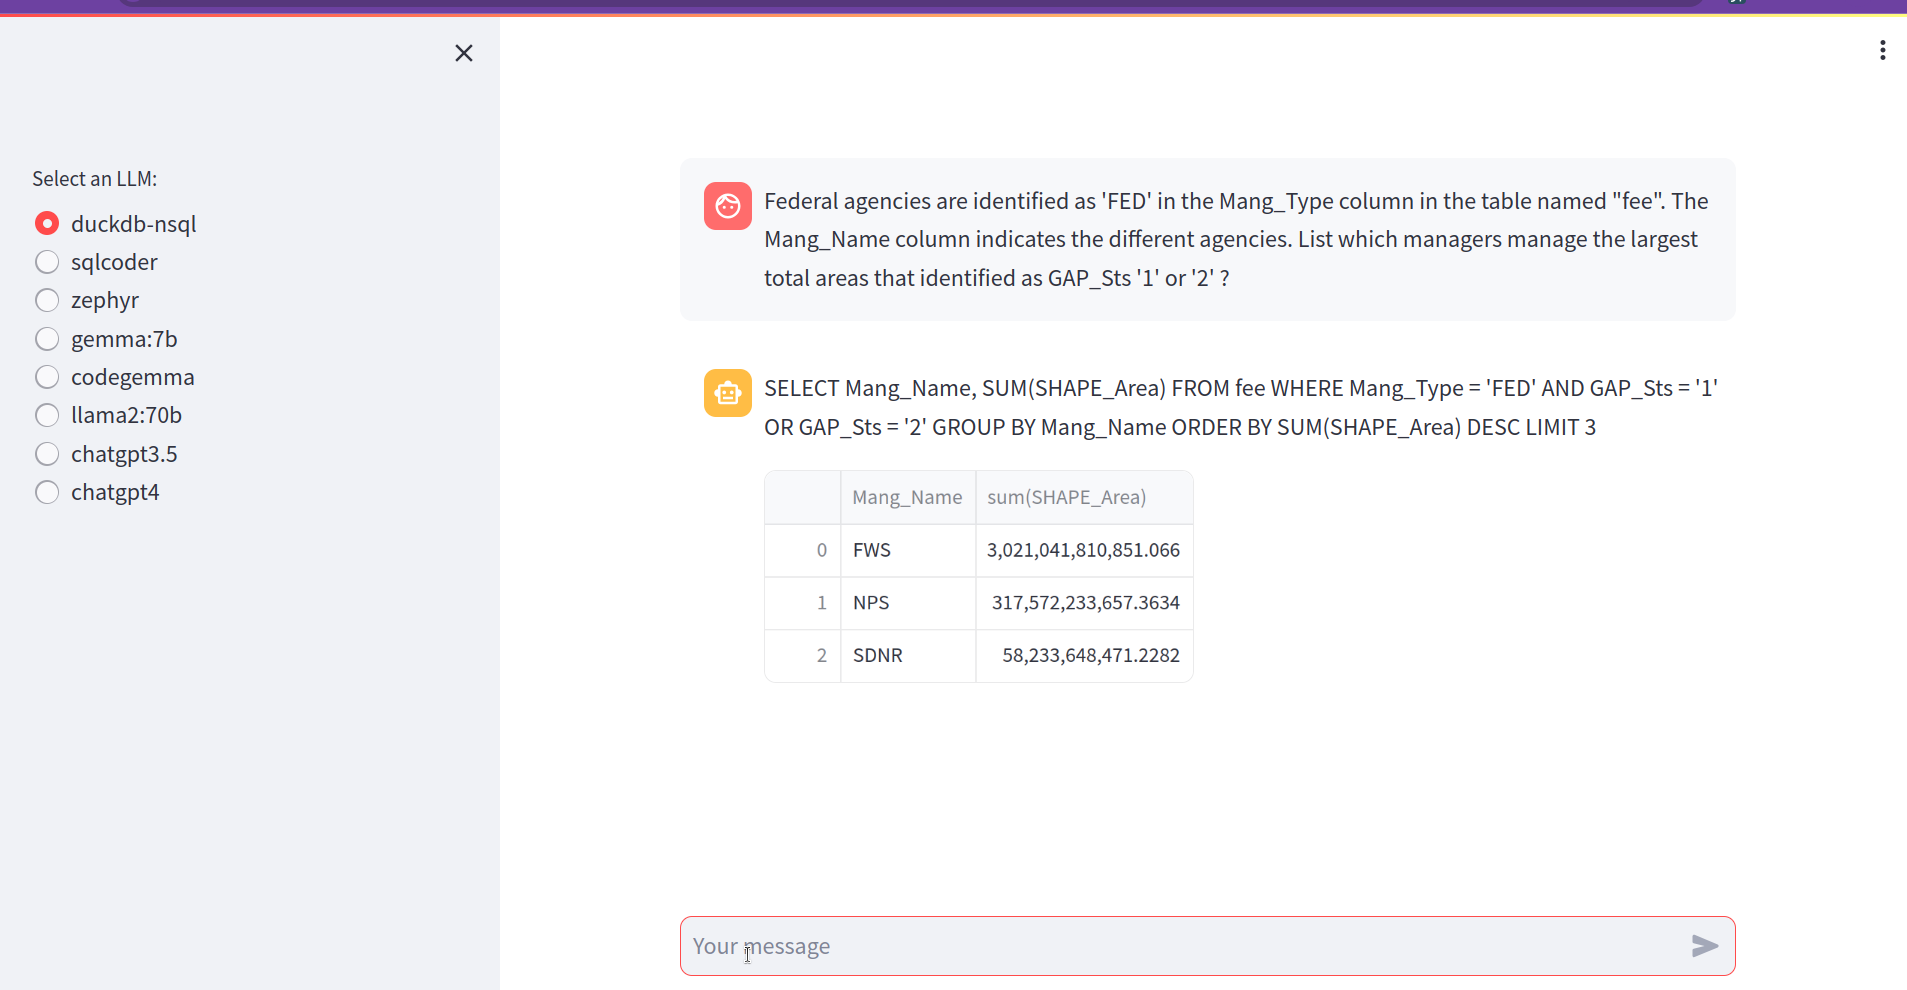
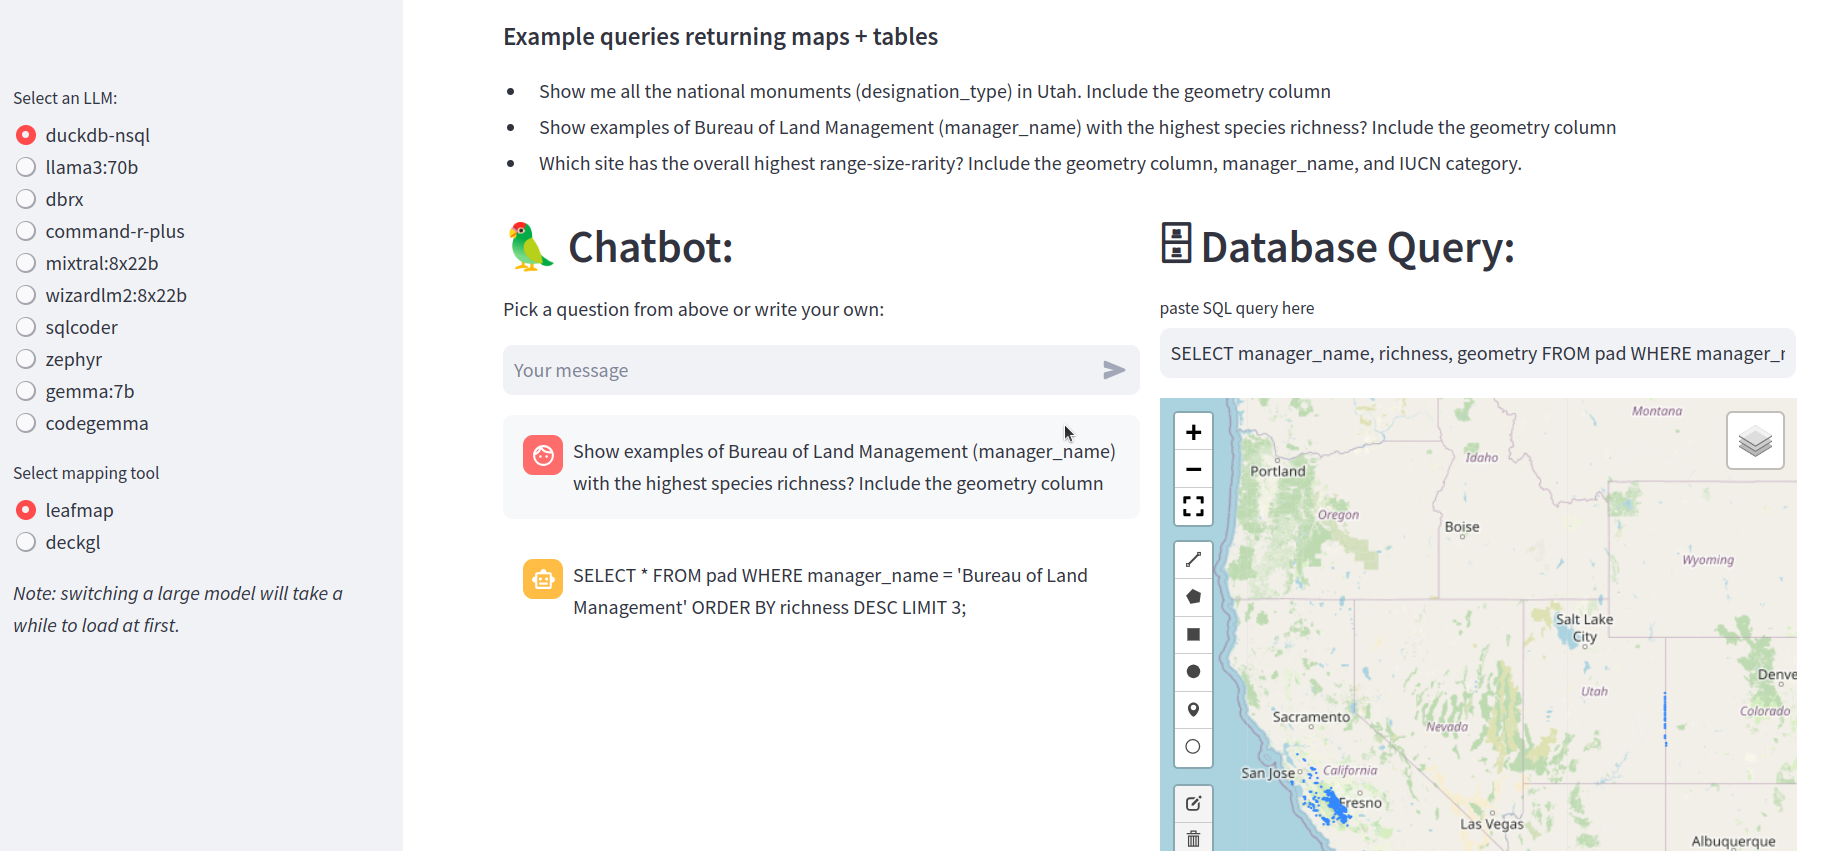
more models!

diff --git a/app.py b/app.py
@@ -43,7 +43,6 @@ def leaf_map(gdf):
     m.add_gdf(gdf)
     return m.to_streamlit()
 
-
 @st.cache_data
 def query_database(response):
     return con.sql(response).to_pandas().head(25)
@@ -53,7 +52,6 @@ def get_geom(tbl):
     tbl['geometry'] = tbl['geometry'].apply(wkb.loads)
     gdf = gpd.GeoDataFrame(tbl, geometry='geometry')
     return gdf
-
 
 ## Database connection
 from sqlalchemy import create_engine
@@ -66,56 +64,116 @@ import ibis
 con = ibis.connect("duckdb://pad.duckdb", read_only=True)
 con.load_extension("spatial")
 
-# alternately using duckdb directly
-#import duckdb
-#con = duckdb.connect("pad.duckdb", read_only=True)
-#con.install_extension("spatial")
-#con.load_extension("spatial")
-
 ## ChatGPT Connection
 from langchain_openai import ChatOpenAI 
-chatgpt_llm = ChatOpenAI(model="gpt-3.5-turbo", temperature=0, api_key=st.secrets["OPENAI_API_KEY"])
-chatgpt4_llm = ChatOpenAI(model="gpt-4", temperature=0, api_key=st.secrets["OPENAI_API_KEY"])
 
 # Requires ollama server running locally
 from langchain_community.llms import Ollama
 ## # from langchain_community.llms import ChatOllama
 
-models = {"duckdb-nsql": Ollama(model="duckdb-nsql", temperature=0),
+models = {
+          "duckdb-nsql": Ollama(model="duckdb-nsql", temperature=0),
+          "llama3:70b": Ollama(model="llama2:70b", temperature=0),
+          "dbrx": Ollama(model="dbrx", temperature=0),
+          "command-r-plus": Ollama(model="command-r-plus", temperature=0),
+          "mixtral:8x22b":  Ollama(model="mixtral:8x22b", temperature=0),
+          "wizardlm2:8x22b":  Ollama(model="wizardlm2:8x22b", temperature=0),
           "sqlcoder": Ollama(model="sqlcoder", temperature=0),
           "zephyr": Ollama(model="zephyr", temperature=0),
           "gemma:7b": Ollama(model="gemma:7b", temperature=0),
           "codegemma": Ollama(model="codegemma", temperature=0),
-          "llama2": Ollama(model="llama2", temperature=0),
-          "chatgpt3.5": chatgpt_llm, 
-          "chatgpt4": chatgpt4_llm}
+#          "chatgpt3.5": ChatOpenAI(model="gpt-3.5-turbo", temperature=0, api_key=st.secrets["OPENAI_API_KEY"]), 
+#          "chatgpt4": ChatOpenAI(model="gpt-4", temperature=0, api_key=st.secrets["OPENAI_API_KEY"])
+          }
+
+map_tool = {
+            "leafmap": leaf_map, 
+            "deckgl": deck_map
+            }
+
+st.set_page_config(page_title="Protected Areas Database Chat", page_icon="🦜", layout="wide")
+st.title("Protected Areas Database Chat")
+
 with st.sidebar:
     choice = st.radio("Select an LLM:", models)
     llm = models[choice]
+    map_choice = st.radio("Select mapping tool", map_tool)
+    mapper = map_tool[map_choice]
+
+    st.markdown("*Note: switching a large model will take a while to load at first.*")
 
 ## A SQL Chain
 from langchain.chains import create_sql_query_chain
 chain = create_sql_query_chain(llm, db)
 
-
 main = st.container()
-
-## Does not preserve history
 with main:
-    if prompt := st.chat_input(key="chain"):
-        st.chat_message("user").write(prompt)
-        with st.chat_message("assistant"):
-            response = chain.invoke({"question": prompt})
-            st.write(response)
-            tbl = query_database(response)
-            if 'geometry' in tbl:
-                gdf = get_geom(tbl)
-                leaf_map(gdf)
-                n = len(gdf)
-                st.write(f"matching features: {n}")
-            st.dataframe(tbl)
+
+    '''
+    The Protected Areas Database of the United States (PAD-US) is the official national inventory of
+    America’s parks and other protected lands, and is published by the USGS Gap Analysis Project,
+    [https://doi.org/10.5066/P9Q9LQ4B.](https://doi.org/10.5066/P9Q9LQ4B).  
+
+    This interactive tool allows users to explore the dataset, as well as a range of biodiversity
+    and climate indicators associated with each protected area. These indicators are integrated into 
+    a single table format shown below.  The chatbot assistant can turn natural language queries into
+    SQL queries based on the table schema.
+
+    ##### Example Queries returning summary tables
+
+    - What is the percent area in each gap code as a fraction of the total protected area?
+    - The manager_type column indicates whether a manager is federal, state, local, private, or NGO.
+      the manager_name column indicates the responsible agency (National Park Service, Bureau of Land Management,
+      etc) in the case of federal manager types.  Which of the federal managers manage the most land in
+      gap_code 1 or 2, as a fraction of the total area?
+
+    When queries refer to specific managed areas, the chatbot can show those areas on an interactive map.
+    Do to software limitations, these maps will show no more than 25 polygons, even if more areas match the
+    requested search. The chatbot sometimes requires help identifying the right columns.  In order to create
+    a map, the SQL query must also return the geometry column.  Conisder the following examples:
+
+    ##### Example queries returning maps + tables
+
+    - Show me all the national monuments (designation_type) in Utah. Include the geometry column
+    - Show examples of Bureau of Land Management (manager_name) with the highest species richness? Include the geometry column
+    - Which site has the overall highest range-size-rarity? Include the geometry column, manager_name, and IUCN category.
+
+    '''
+
+    # Super-minimal streamlit interface
+    # Should almost surely adjust this to use chatbot state/memory
+    chatbox, database = st.columns(2)
+    with chatbox:           
+        st.markdown("## 🦜 Chatbot:")
+        st.markdown("Pick a question from above or write your own:")
+        if prompt := st.chat_input(key="chain"):
+            st.chat_message("user").write(prompt)
+            with st.chat_message("assistant"):
+                response = chain.invoke({"question": prompt})
+                st.write(response)
 
 
+    with database:
+        st.markdown("## 🗄 Database Query:")
+
+        query = st.text_input("paste SQL query here", "select manager_name from pad limit 1")
+
+        # And manually do stuff with the chatbot's SQL code
+        tbl = query_database(query)
+        if 'geometry' in tbl:
+            gdf = get_geom(tbl)
+            mapper(gdf)
+            n = len(gdf)
+            st.write(f"matching features: {n}")
+        st.dataframe(tbl)
+
+
+st.divider()
+
+with st.container():
+    st.text("Database schema (top 3 rows)")
+    tbl = tbl = query_database("select * from pad limit 3")
+    st.dataframe(tbl)
 
 # duckdb_sql fails but chatgpt3.5 succeeds with a query like:
 # use the st_area function and st_GeomFromWKB functions to compute the area of the Shape column in the fee table, and then use that to compute the total area under each GAP_Sts category

diff --git a/README.md b/README.md
@@ -1,6 +1,6 @@
 # sql-chatbots
 
-Exploring SQL construction using LLMs
+Exploring SQL construction using free / open-weights LLMs
 
 ## Installation
 
@@ -10,23 +10,33 @@ Install python dependencies
 pip install -r requirements.txt
 ```
 
-- Install `ollama` , run `ollama serve`.
-- Download models with `ollama`: 
+- Install `ollama` , run `ollama serve`.  See <https://ollama.com/>
+- Download your choice of models with `ollama`, e.g. 
 
 ```
 ollama pull duckdb-nsql
-ollama pull llama2:70b
 ollama pull gemma
 ollama pull zephyr
 ollama pull sqlcoder
 ollama pull codegemma
 ```
 
-(Choose whatever subset you like, `duckdb-nsql` seems to works best here.)
+Larger models, requiring a GPU with greater onboard RAM:
+
+```
+ollama pull llama3:70b
+ollama pull dbrx
+ollama pull mixtral:8x22b
+ollama pull wizardlm2:8x22b
+ollama pull command-r-plus
+```
+
+(Choose whatever subset you like. `duckdb-nsql` works rather well and is small enough for many machines.)
+Comment out models you don't want in the `app.py` st.radio selector.  
+
 
 If you want to use OpenAI models, add the API key as a streamlit secret.  
 
-Comment out models you don't want in the `app.py` st.radio selector.  
 
 ## Database setup
 
